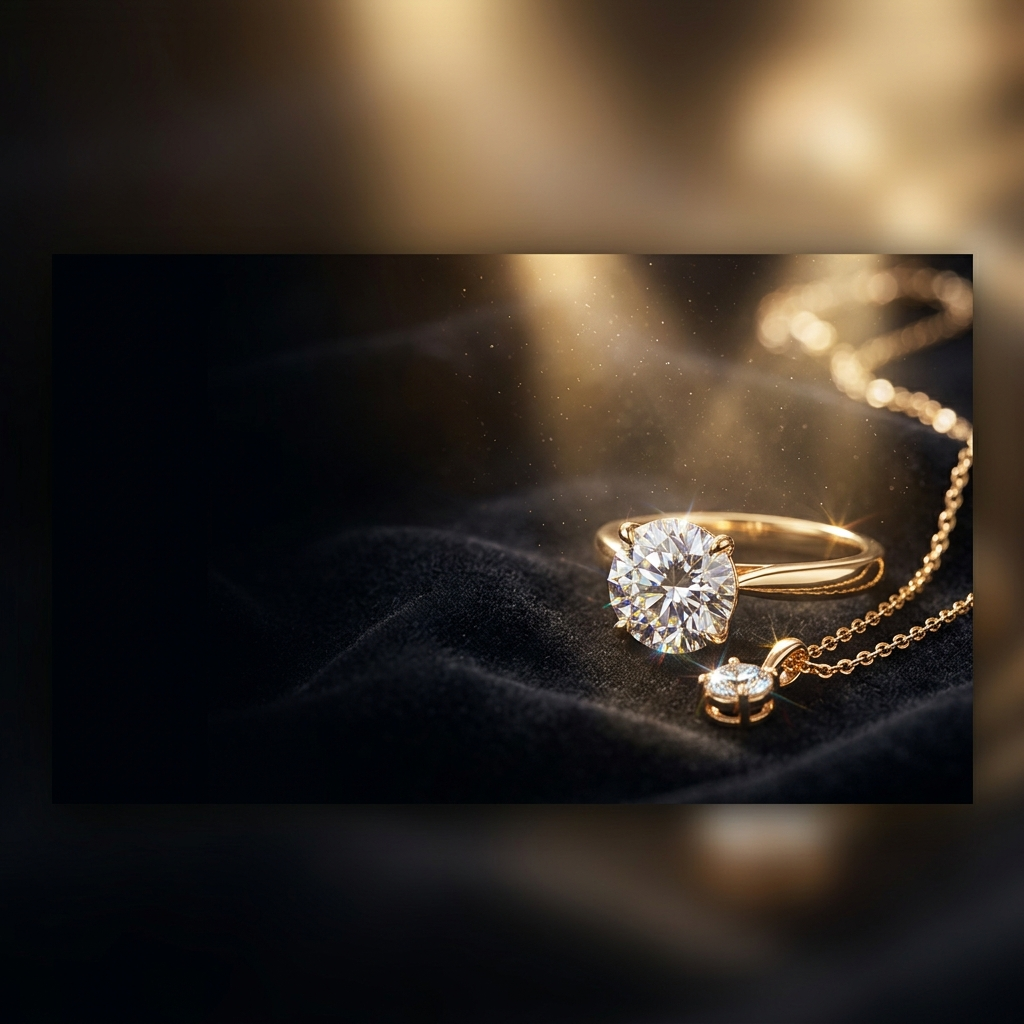
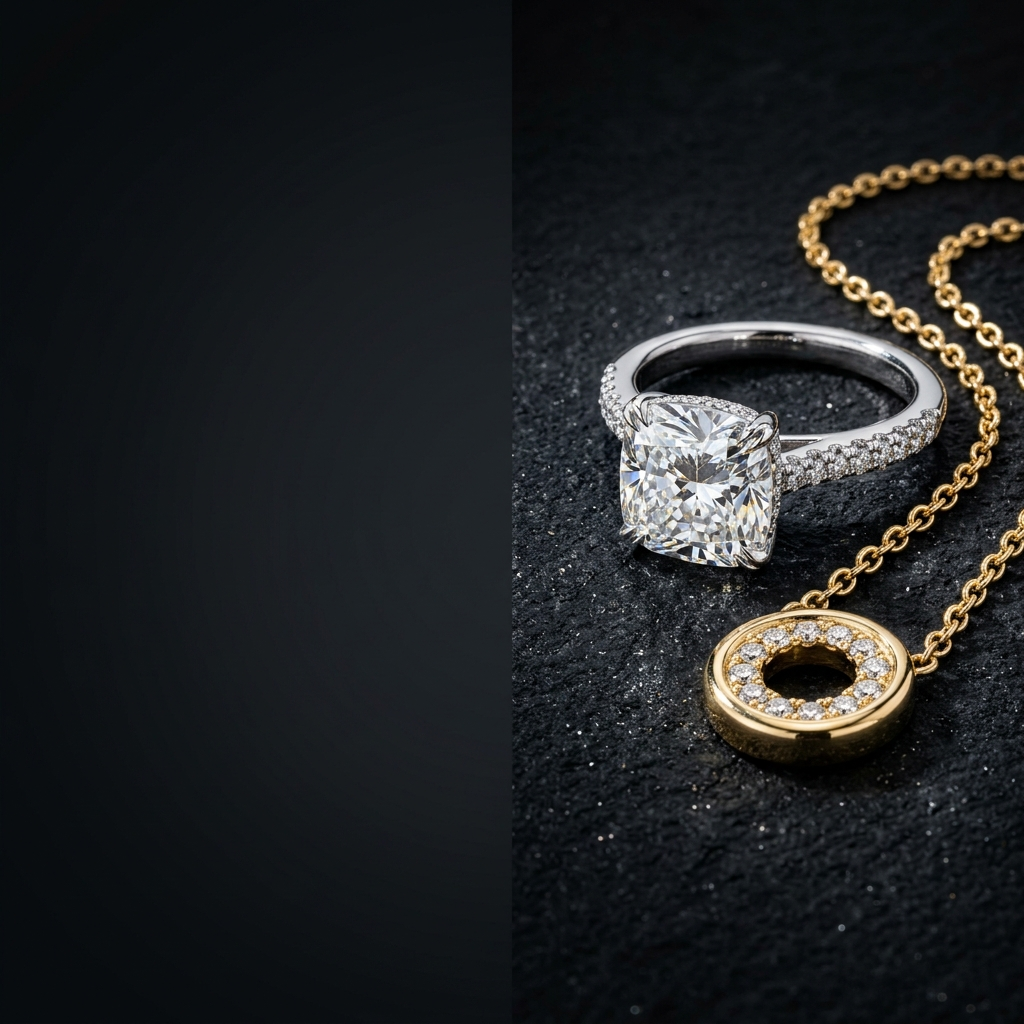
style: replace background image with high-definition ultra-clear 8K version and adjust overlay gradients for maximum clarity

diff --git a/style.css b/style.css
@@ -774,17 +774,17 @@ button, .btn-primary, .btn-secondary, .btn-glass, .btn-outline-ananta {
     inset: 0;
     background: linear-gradient(
         115deg,
-        rgba(8, 4, 18, 0.90) 0%,
-        rgba(12, 6, 25, 0.72) 40%,
-        rgba(18, 8, 30, 0.40) 70%,
-        rgba(8, 4, 18, 0.65) 100%
+        rgba(8, 4, 18, 0.85) 0%,
+        rgba(12, 6, 25, 0.55) 40%,
+        rgba(18, 8, 30, 0.15) 75%,
+        rgba(8, 4, 18, 0.35) 100%
     );
     z-index: 1;
 }
 .hero-overlay-vignette {
     position: absolute;
     inset: 0;
-    background: radial-gradient(ellipse at 70% 50%, transparent 35%, rgba(4, 2, 12, 0.65) 100%);
+    background: radial-gradient(ellipse at 75% 50%, transparent 45%, rgba(4, 2, 12, 0.45) 100%);
     z-index: 2;
 }
 .hero-overlay-shimmer {
